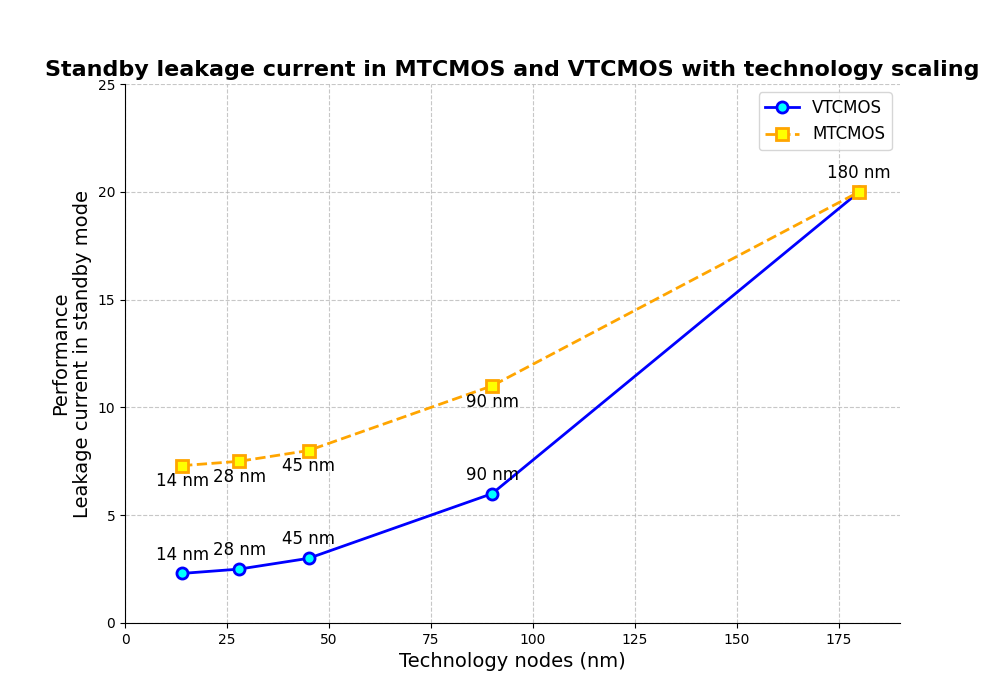
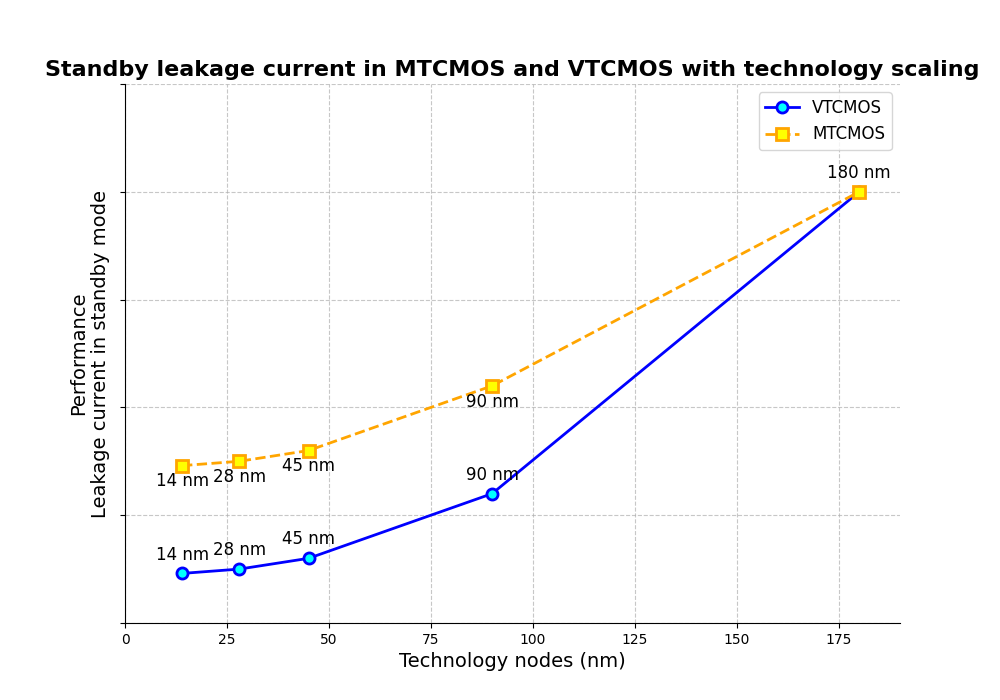
Plot MTCMOS and VTCMOS

Changed region(s): [[0.031, 0.27, 0.124, 0.75]]

diff --git a/main.py b/main.py
@@ -40,6 +40,9 @@ plt.gca().spines['right'].set_visible(False)  # Hide the right spine
 plt.gca().spines['left'].set_position('zero')  # Position the left spine at zero
 plt.gca().spines['bottom'].set_position('zero')  # Position the bottom spine at zero
 
+# Remove the Y-axis tick labels
+plt.gca().set_yticklabels([])
+
 # Display the grid with dashed lines and partial transparency
 plt.grid(True, linestyle='--', alpha=0.7)
 
